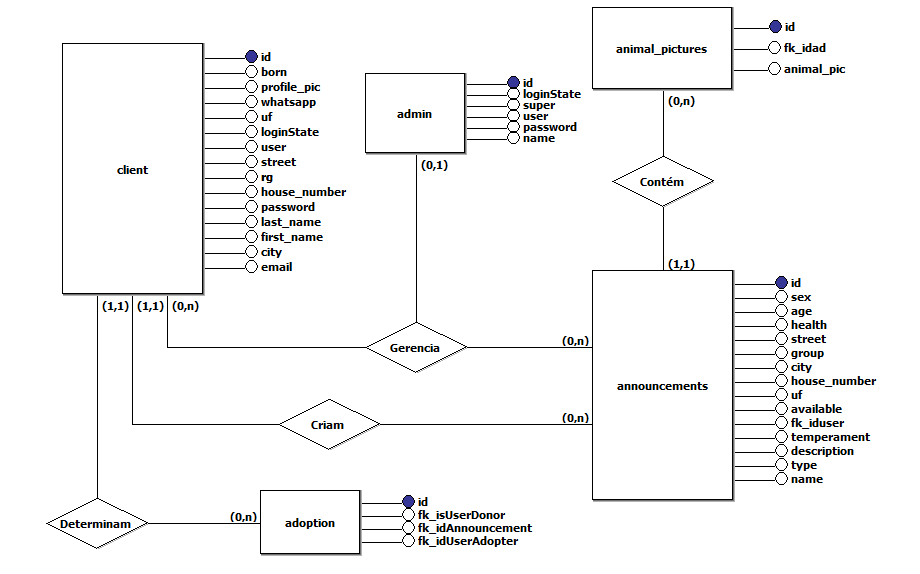
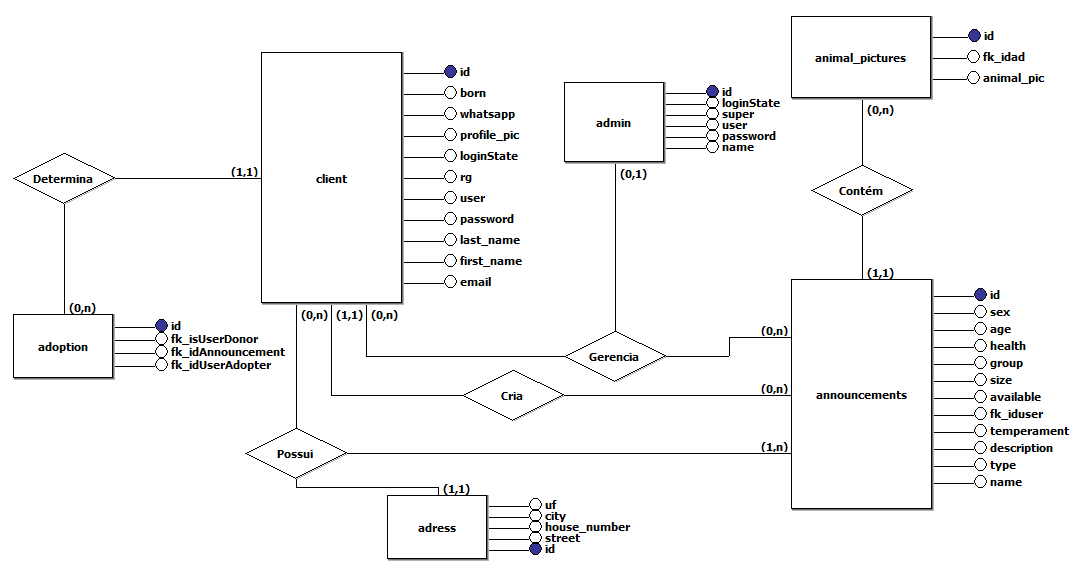
refact models client, announcement e adress

diff --git a/backend/src/database/models/AnnouncementModel.js b/backend/src/database/models/AnnouncementModel.js
@@ -2,22 +2,22 @@
 const { Sequelize, DataTypes } = require('sequelize');
 const sequelize = require('../connection');
 const ClientModel = require('./ClientModel');
+const AdressModel = require('./AdressModel');
 
 //CAMPOS
 /*
  * sex *
  * age *
- * latitude *
- * longitude *
  * health *
- * fk_iduser *
+ * group *
+ * available *
+ * size *
+ * fk_idUser *
  * temperament *
  * description *
  * type *
  * name *
- * uf *
- * city *
- * size *
+ * fk_idAdress *
  */
 
 //MODELO
@@ -54,38 +54,36 @@ const Announcement = sequelize.define('announcements', {
     },
     age:{
         type: DataTypes.STRING,
+        allowNull: false,
+        validate: { notEmpty: { msg: "Este campo não pode estar vazio" } }
     },
     health:{
         type: DataTypes.STRING
     },
-    sex:{
-        type: DataTypes.STRING,
-        allowNull: false,
-        validate: { notEmpty: { msg: "Este campo não pode estar vazio" } }
-    },
-    cep: {
-        type: DataTypes.INTEGER,
-        allowNull: false,
-        validate: { notEmpty: { msg: "Este campo não pode estar vazio" } }
-    },
-    uf:{
-        type: DataTypes.STRING,
-        allowNull: false,
-        validate: { notEmpty: { msg: "Este campo não pode estar vazio" } }
-    },
-    city:{
-        type: DataTypes.STRING,
-        allowNull: false,
-        validate: { notEmpty: { msg: "Este campo não pode estar vazio" } }
-    },
-    fk_iduser:{
+    fk_idUser:{
         type: DataTypes.INTEGER,
         allowNull: false,
         references: { model: ClientModel, key: 'id' },
         validate: { notEmpty: { msg: "Este campo não pode estar vazio" } }
     },
+    fk_idAdress:{
+        type: DataTypes.INTEGER,
+        allowNull: false,
+        references: { model: AdressModel, key: 'id' },
+        validate: { notEmpty: { msg: "Este campo não pode estar vazio" } }
+    },
     size:{
         type: DataTypes.STRING,
+        allowNull: false,
+        validate: { notEmpty: { msg: "Este campo não pode estar vazio" } }
+    },
+    available:{
+        type: DataTypes.BOOLEAN,
+        allowNull: false,
+        validate: { notEmpty: { msg: "Este campo não pode estar vazio" } }
+    },
+    group:{
+        type: DataTypes.BOOLEAN,
         allowNull: false,
         validate: { notEmpty: { msg: "Este campo não pode estar vazio" } }
     }
@@ -93,4 +91,4 @@ const Announcement = sequelize.define('announcements', {
 module.exports = Announcement;
 
 //CRIAÇÃO DA TABELA NO BANCO
-//Announcement.sync({force: true});
+Announcement.sync({force: true});

diff --git a/backend/src/database/models/ClientModel.js b/backend/src/database/models/ClientModel.js
@@ -1,21 +1,18 @@
 //REQUISIÇÕES
 const { Sequelize, DataTypes } = require('sequelize');
 const sequelize = require('../connection');
+const AdressModel = require('./AdressModel');
 
 //CAMPOS
 /*
- * firstName
- * lastName
- * user
- * password
- * email
- * rg
- * born
- * uf
- * city
+ * firstName*
+ * lastName*
+ * user*
+ * password*
+ * email*
+ * rg*
+ * born*
  * loginState
- * latitude
- * longitide
  * profile_pic
  */
 
@@ -82,23 +79,13 @@ const Client = sequelize.define('client', {
             notEmpty: { msg: "Este campo não pode estar vazio" }
         }
     },
-    uf:{
-        type: DataTypes.STRING,
+    fk_idAdress:{
+        type: DataTypes.INTEGER,
         allowNull: false,
-        validate: {
-            notEmpty: { msg: "Este campo não pode estar vazio" }
-        }
-    },
-    city:{
-        type: DataTypes.STRING,
-        allowNull: false,
-        validate: {
-            notEmpty: { msg: "Este campo não pode estar vazio" }
-        }
+        references: { model: AdressModel, key: 'id' },
+        validate: { notEmpty: { msg: "Este campo não pode estar vazio" } }
     },
     loginState: { type: DataTypes.BOOLEAN },
-    latitude: { type: DataTypes.INTEGER },
-    longitude: { type: DataTypes.INTEGER },
     profile_pic: { type: DataTypes.STRING  }
 }, {});
 module.exports = Client;

diff --git a/backend/src/database/models/AdressModel.js b/backend/src/database/models/AdressModel.js
@@ -1,0 +1,35 @@
+//REQUISIÇÕES
+const { Sequelize, DataTypes } = require('sequelize');
+const sequelize = require('../connection');
+
+//CAMPOS
+/*
+ * sex *
+ * age *
+ * health *
+ * group
+ * available
+ * fk_idUser 
+ * temperament *
+ * description *
+ * type *
+ * name *
+ */
+
+//MODELO
+const Adress = sequelize.define('adress', {
+    uf:{
+        type: DataTypes.STRING,
+        allowNull: false,
+        validate: { notEmpty: { msg: "Este campo não pode estar vazio" } }
+    },
+    city:{
+        type: DataTypes.STRING,
+        allowNull: false,
+        validate: { notEmpty: { msg: "Este campo não pode estar vazio" } }
+    }
+}, {});
+module.exports = Announcement;
+
+//CRIAÇÃO DA TABELA NO BANCO
+//Adress.sync({force: true});

diff --git a/backend/src/database/models/AnimalPicturesModel.js b/backend/src/database/models/AnimalPicturesModel.js
@@ -6,7 +6,7 @@ const AnnouncementModel = require('./AnnouncementModel');
 //CAMPOS
 /*
  * fk_iduser
- * profile_pic
+ * animal_pic
  */
 
 //MODELO
